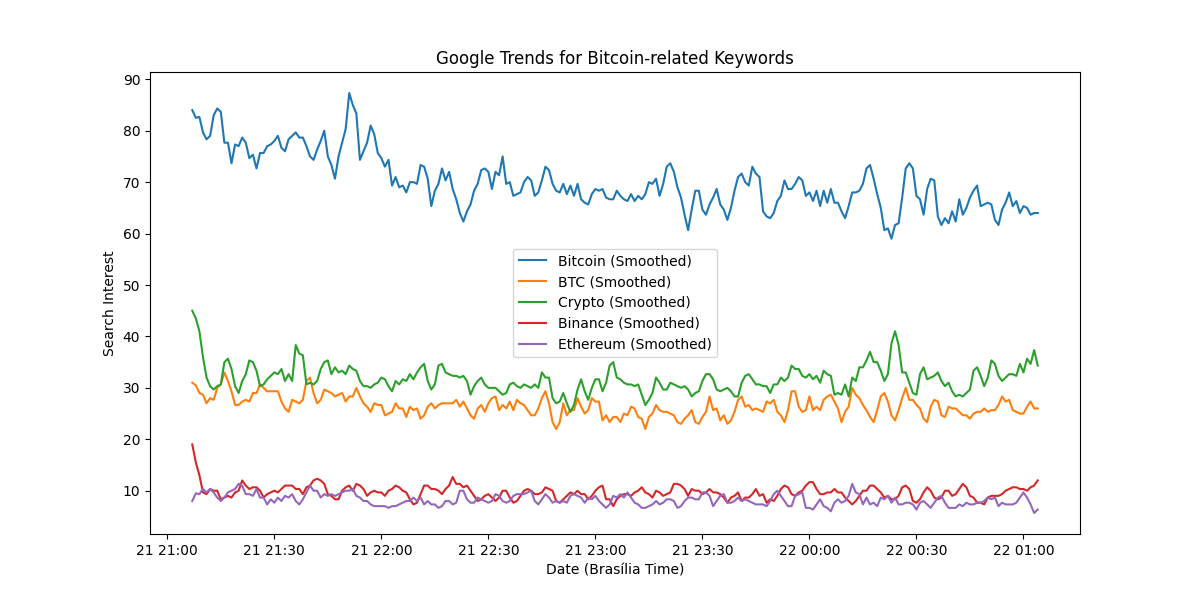
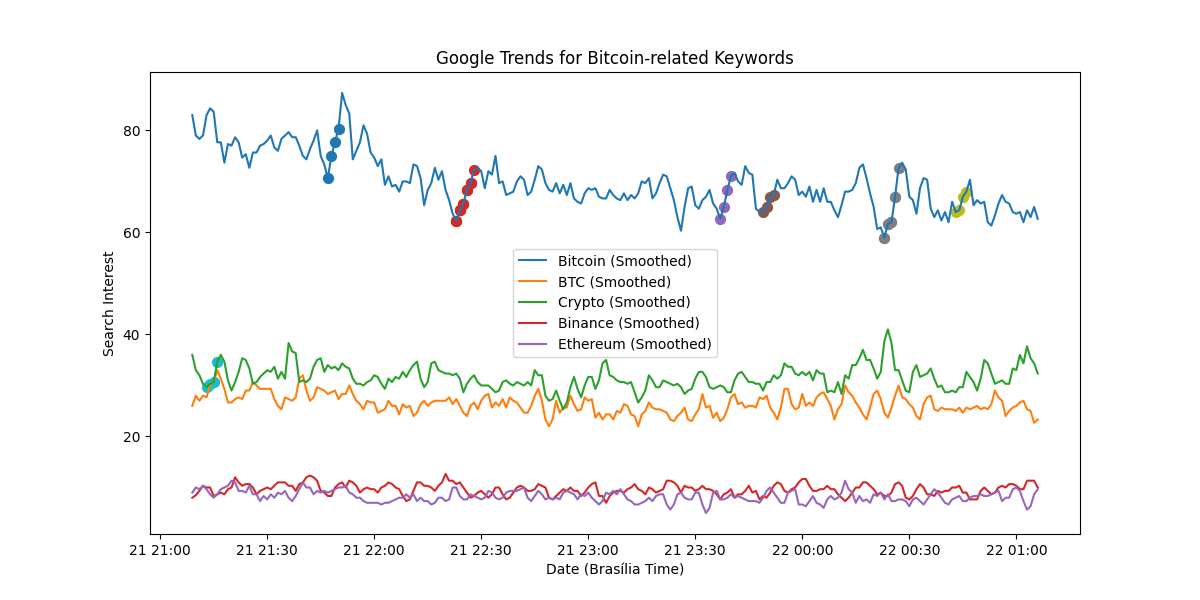
image.png

diff --git a/main.py b/main.py
@@ -31,8 +31,8 @@ if not interest_over_time_df.empty:
     derivatives = smoothed_data.diff().dropna()
 
     # Define a threshold for sustained increase (based on cumulative growth)
-    sustained_increase_threshold = 8  # Total cumulative growth
-    sustained_period_threshold = 7     # Minimum number of consecutive periods
+    sustained_increase_threshold = 6  # Total cumulative growth
+    sustained_period_threshold = 4     # Minimum number of consecutive periods
     intervals = {}
 
     for keyword in keywords:
